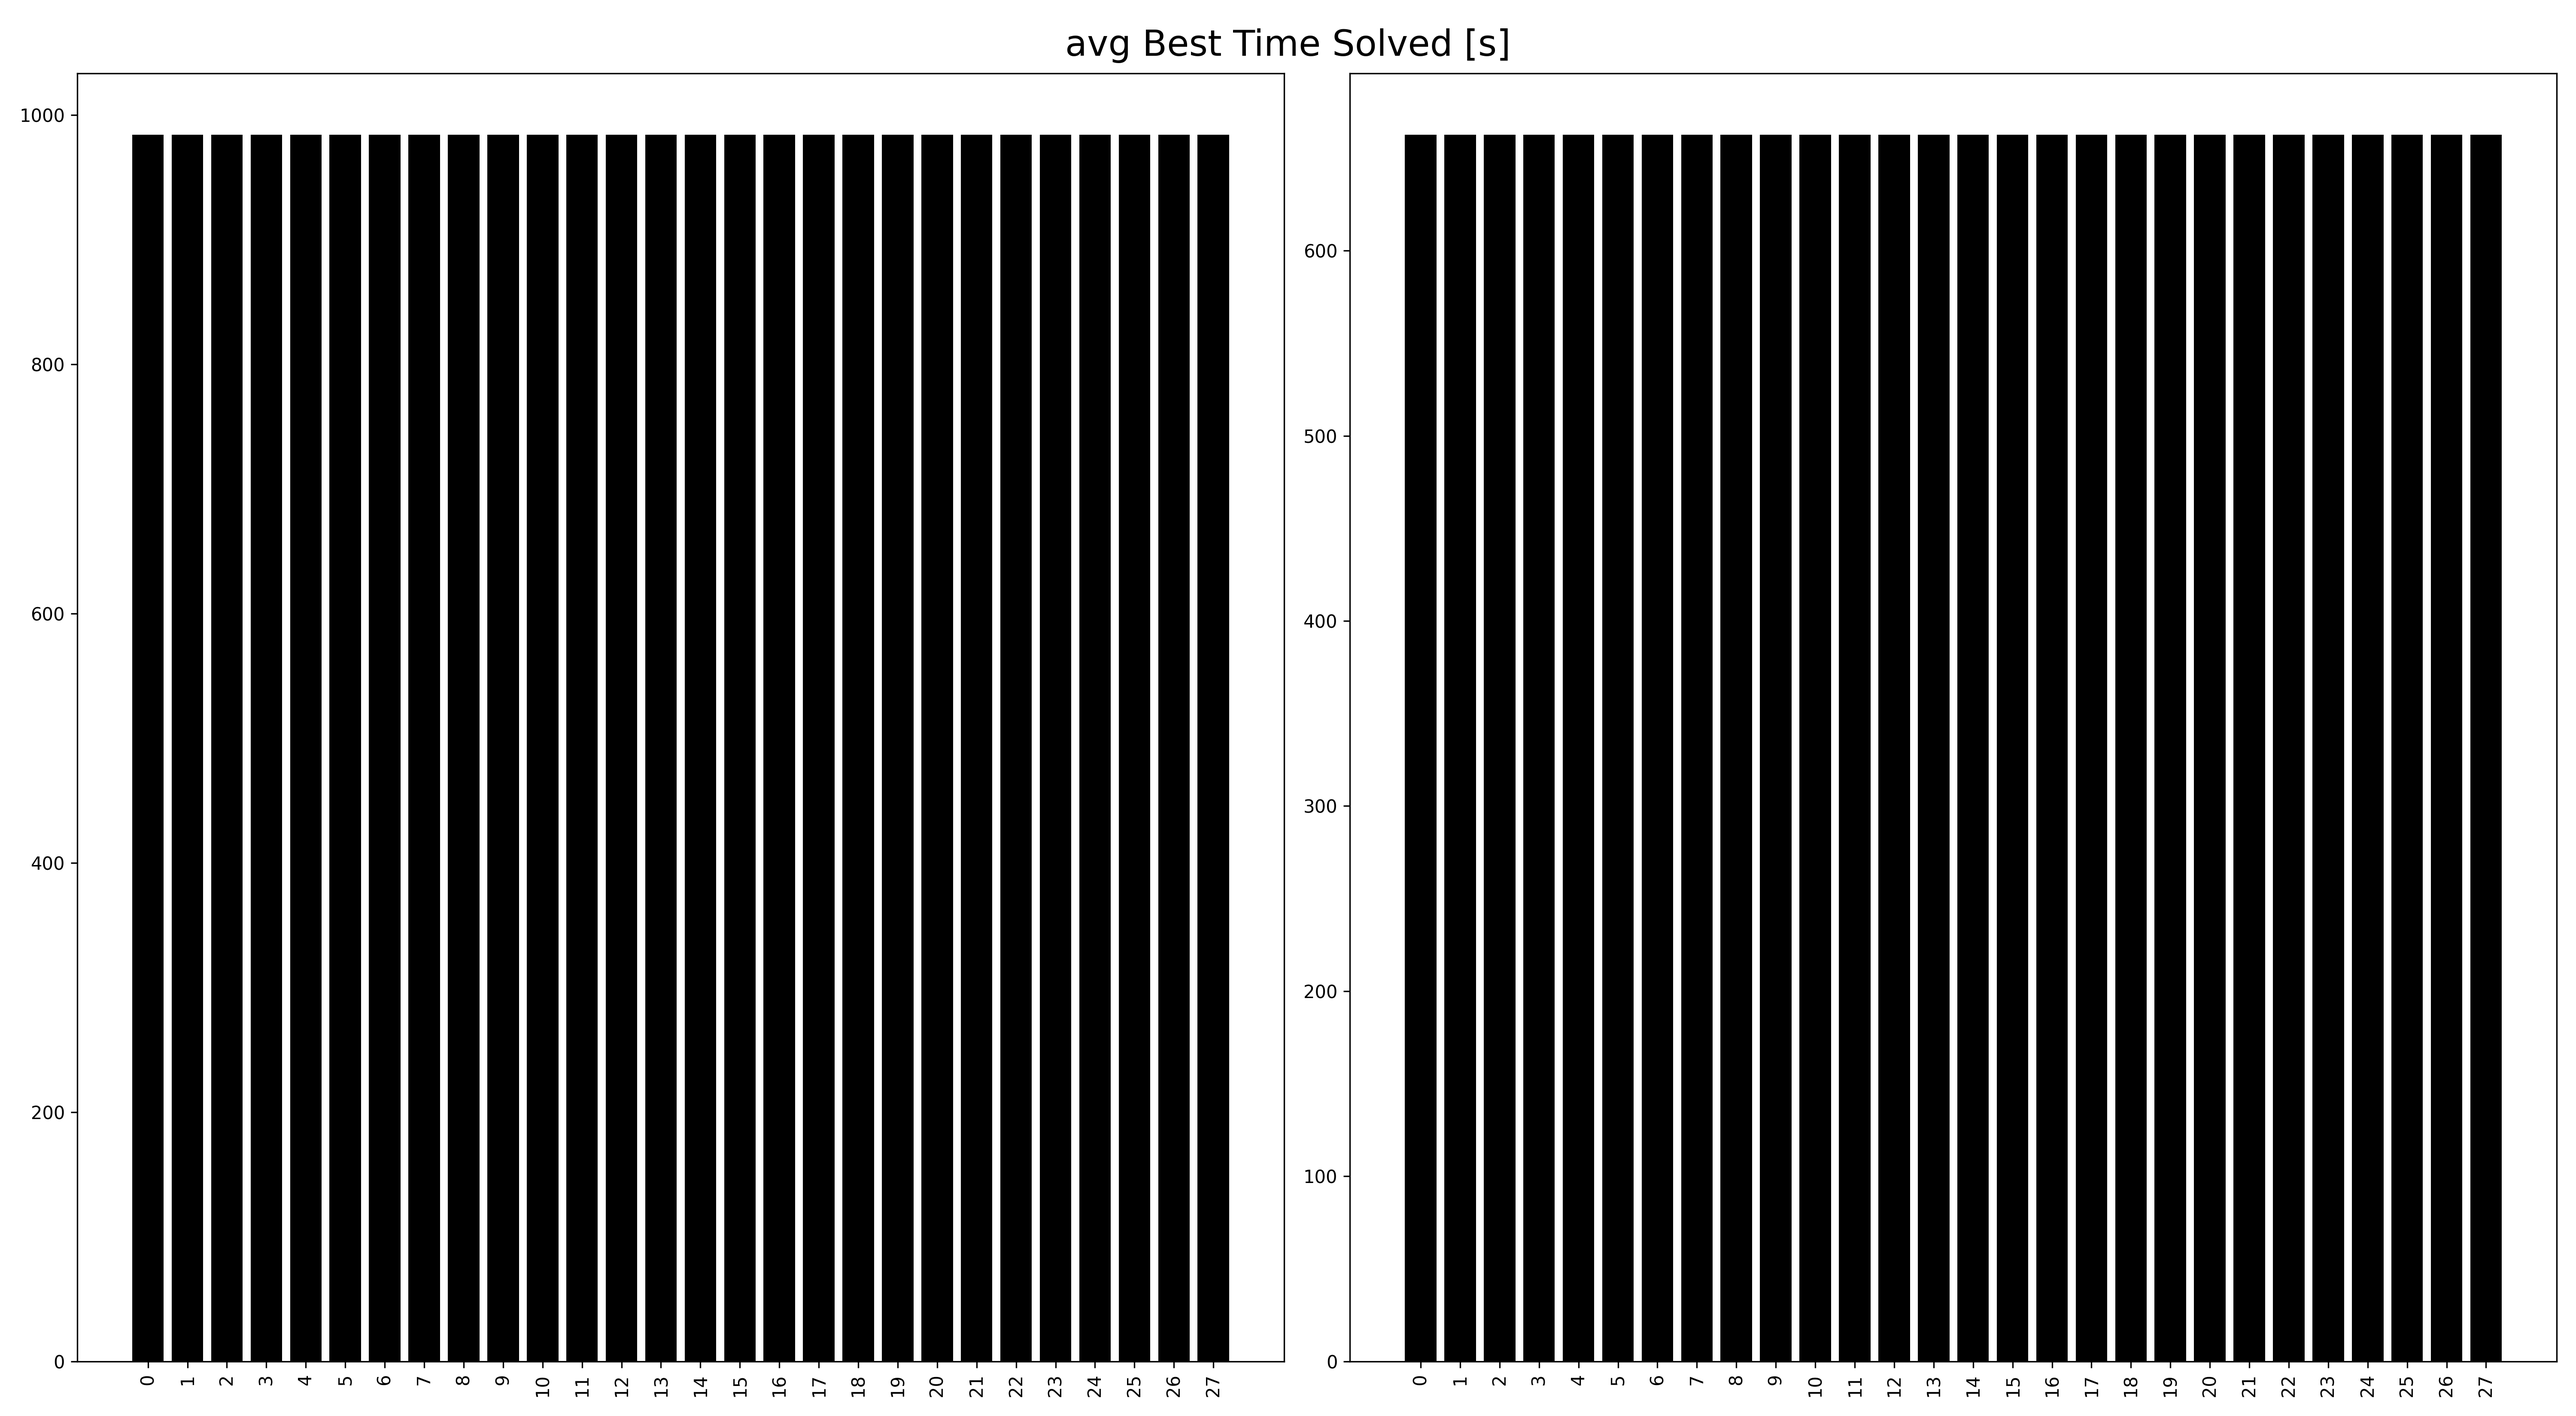
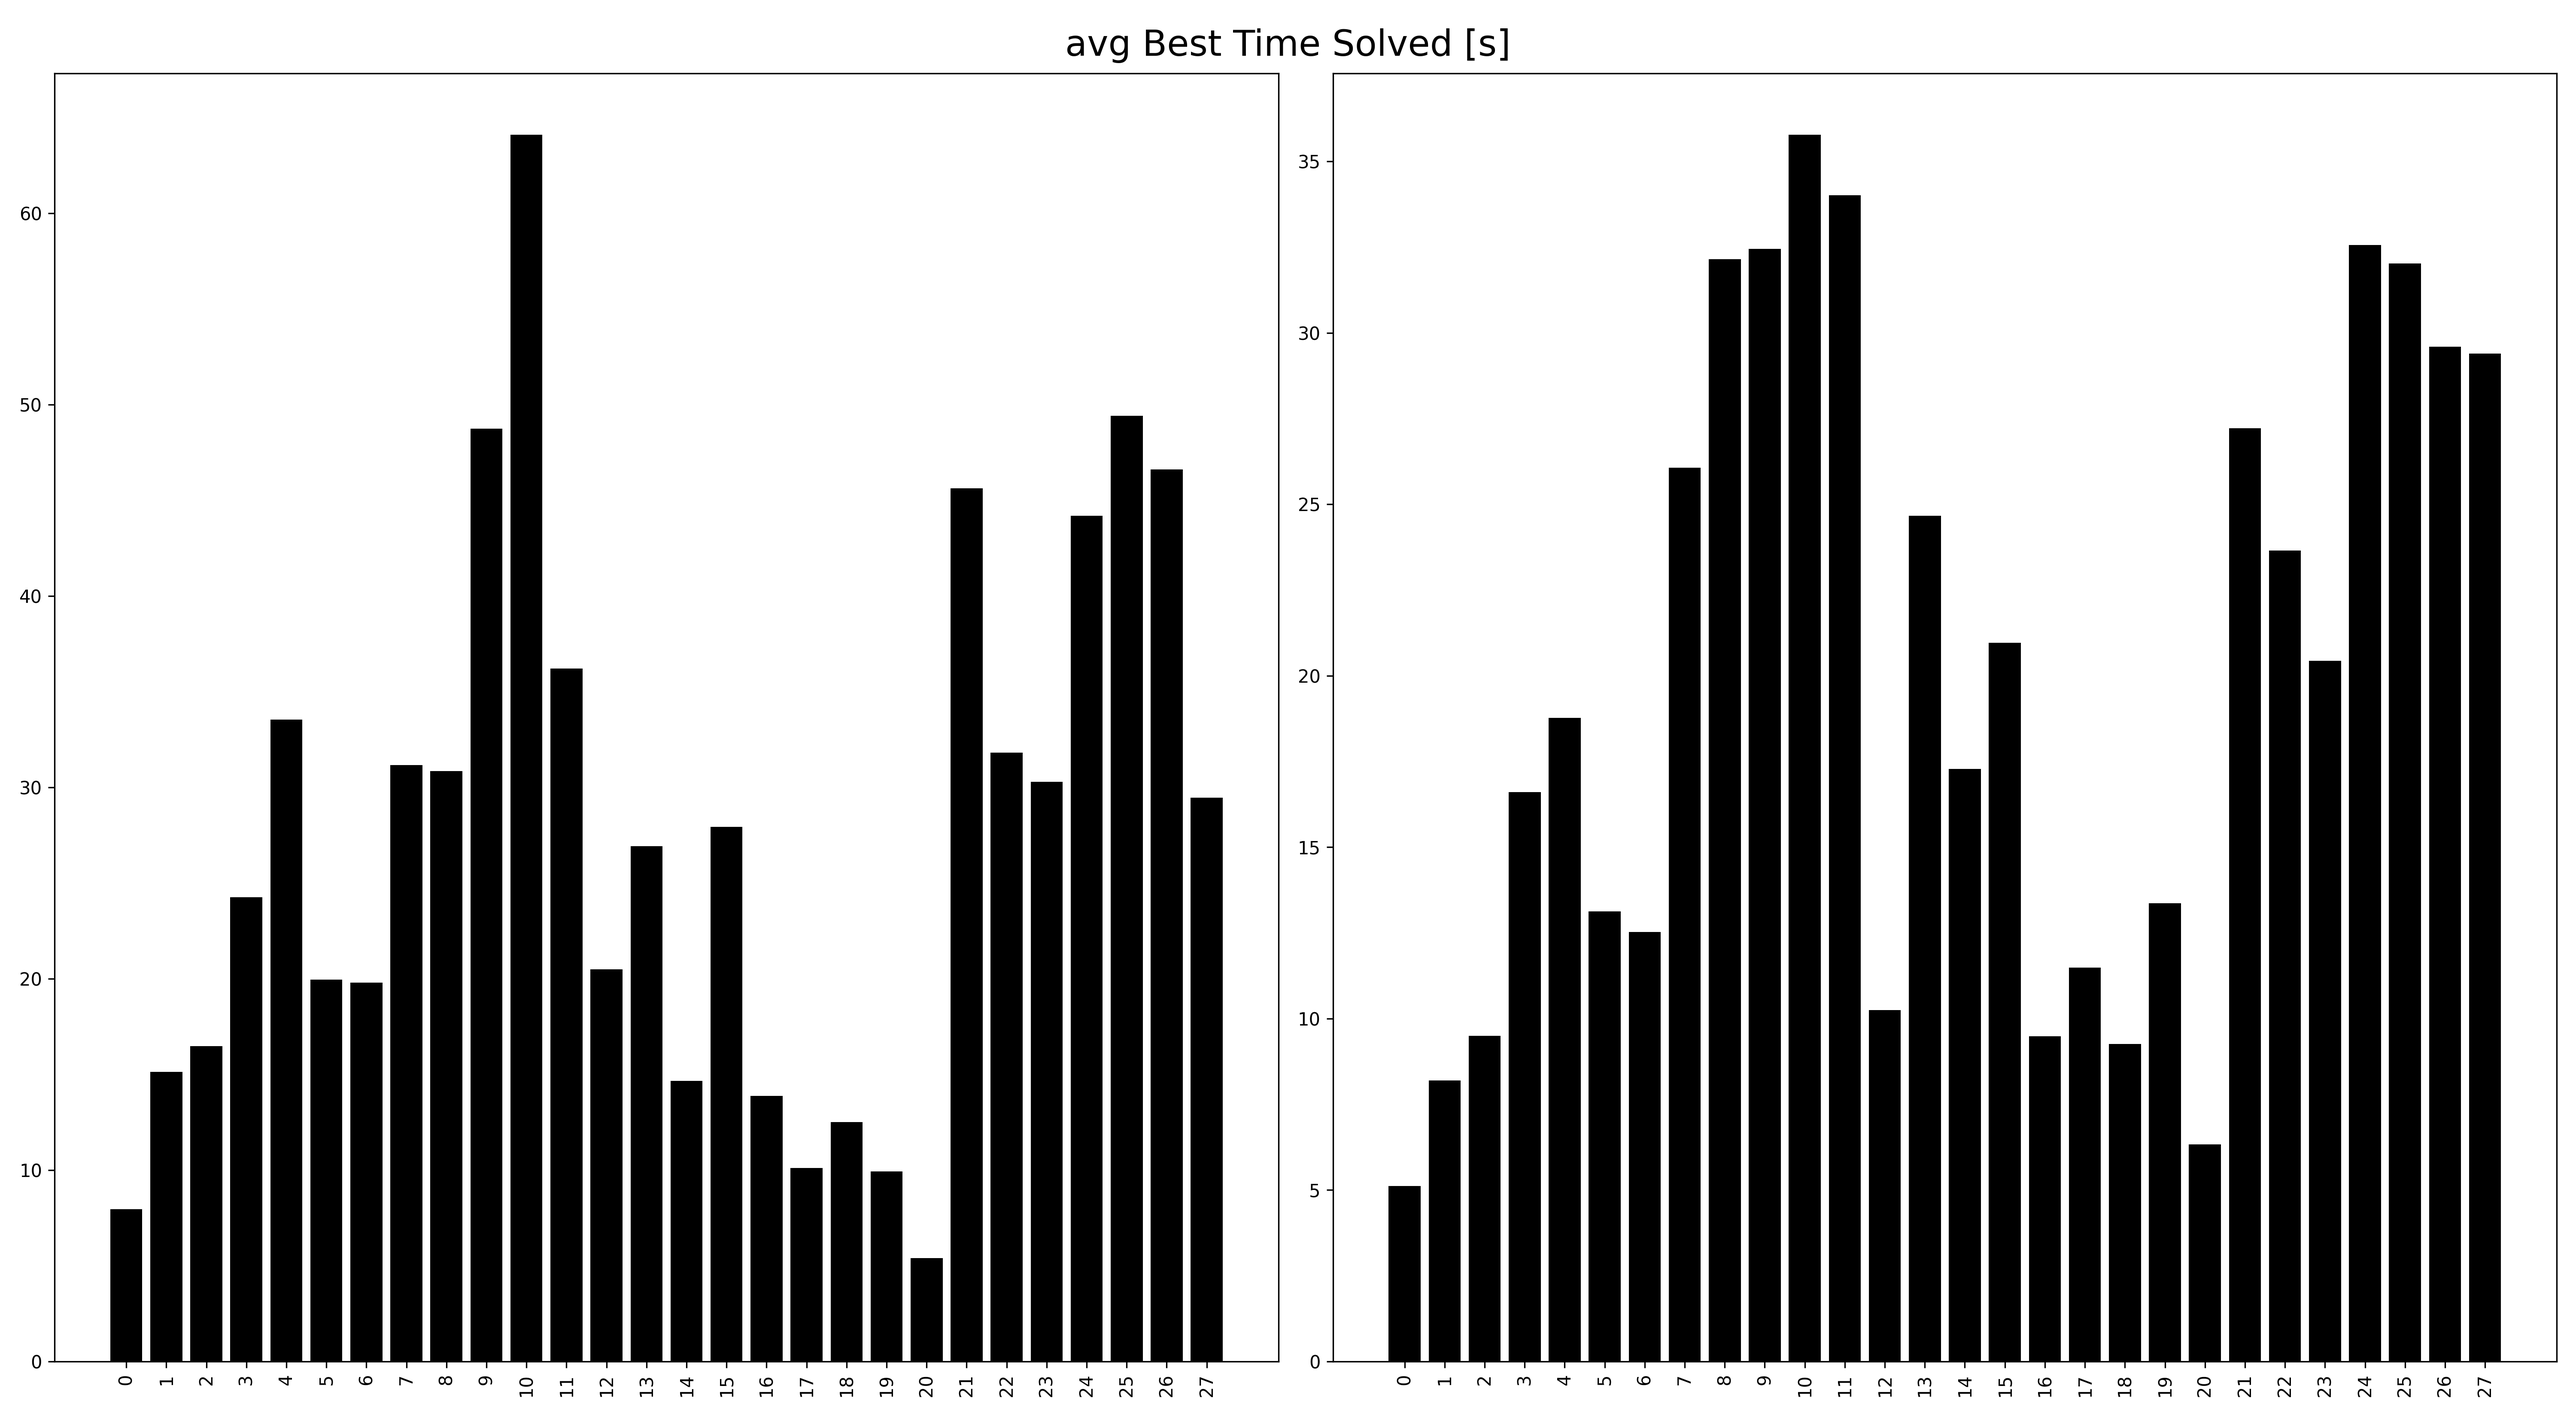
avg best time sol time plot added

diff --git a/SRC/solvedTimeDist.py b/SRC/solvedTimeDist.py
@@ -125,17 +125,19 @@ for particpants in [40]:
         puzzle_id_index = np.where(unique_puzzles == puzzle_id)[0][0]
         sol_matrix2_best[particpants_index, puzzle_id_index] = np.nan
 
-                    
-# plt.figure(figsize=(20,11))
-# plt.suptitle('avg Best Time Solved [s]', fontsize=20)
-# plt.subplot(1, 2, 1)
-# plt.bar(unique_puzzles, columnsun1, color="black")
-# plt.xticks(np.arange(len(unique_puzzles)), unique_puzzles, rotation=90)
-# plt.subplot(1, 2, 2)
-# plt.bar(unique_puzzles, columnsun2, color="black")
-# plt.xticks(np.arange(len(unique_puzzles)), unique_puzzles, rotation=90)
-# plt.savefig("./Data/avgBestTimeDistribution.png", dpi=300)
-# plt.close()
+columnsun1 = np.mean(np.ma.masked_invalid(sol_matrix1), axis=0)
+columnsun2 = np.mean(np.ma.masked_invalid(sol_matrix2), axis=0)
+
+plt.figure(figsize=(20,11))
+plt.suptitle('avg Best Time Solved [s]', fontsize=20)
+plt.subplot(1, 2, 1)
+plt.bar(unique_puzzles, columnsun1, color="black")
+plt.xticks(np.arange(len(unique_puzzles)), unique_puzzles, rotation=90)
+plt.subplot(1, 2, 2)
+plt.bar(unique_puzzles, columnsun2, color="black")
+plt.xticks(np.arange(len(unique_puzzles)), unique_puzzles, rotation=90)
+plt.savefig("./Data/avgBestTimeDistribution.png", dpi=300)
+plt.close()
 
 # plt.figure(figsize=(20,15))
 # plt.suptitle('Time Solved [s]', fontsize=20)
